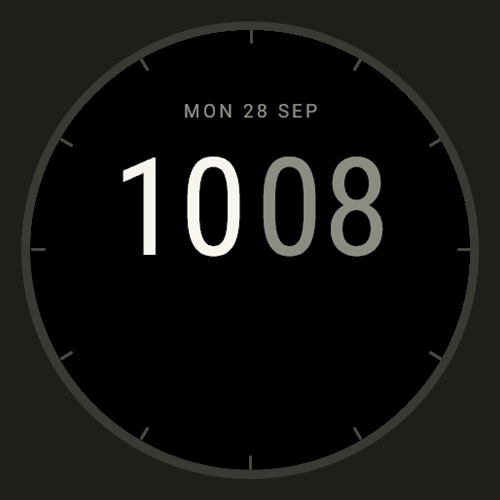
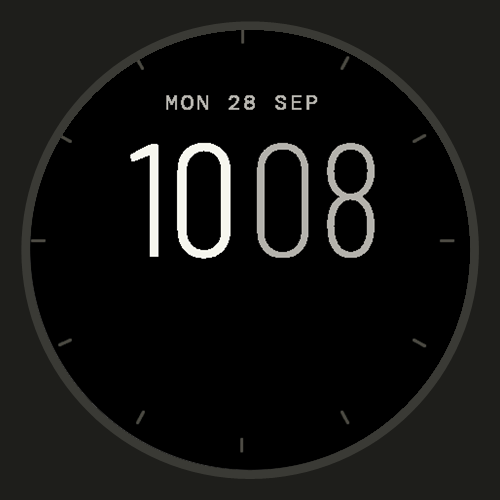
Store images with real fonts, night and MIP shots; docs
- Regenerated screenshots, cover, icon and hero from the bitmap-font build;
  added Night and MIP screenshots and a language-neutral hero
- Single capture script (store/tools/devshot.ps1) replaces build/capture/crop
- Store description: customise steps, Night mode, MIP seconds
- CLAUDE.md: fonts, night mode, burn-in, per-device configs; build order done

diff --git a/CLAUDE.md b/CLAUDE.md
@@ -49,18 +49,26 @@ Products are all round watch-face devices on API 5.0+ (rectangular Venu Sq / X1 
 semi-octagon, monochrome Instinct screens are deliberately out). `tests\check-resources.ps1` checks
 every product is round. On those watches:
 
+- **Fonts per screen size**: the bitmap fonts live in `resources-round-<W>x<W>/fonts/` (9 sizes,
+  see Fonts). A device override in `monkey.jungle` drops these automatic folders, so every
+  override line must list its own `resources-round-<W>x<W>` (the resource check enforces it).
 - **No scalable fonts** (all MIP watches, and some AMOLED ones such as the Venu 2 family):
-  `Graphics.getVectorFont` is missing, so guard it with `has`. Fall back to the system font whose
-  real height is closest to the design size on that screen (`ApexLayout.pickFont`), and lay text
-  rows out from the real font heights (`ApexLayout.rowBelow` / `rowAbove`) so nothing overlaps.
+  `Graphics.getVectorFont` is missing, so it is guarded with `has`. It is only a fallback now (if the
+  bitmap fonts can't load), after which the system font closest to the design size is used
+  (`ApexLayout.pickFont`). Text rows are laid out from real font heights
+  (`ApexLayout.rowExtent` / `rowBelow` / `rowAbove`) so nothing overlaps.
 - **Pen widths** below 1 px throw on small screens: always go through `ApexLayout.penWidth`.
 - **MIP colours**: 64-colour palette (channels 00/55/AA/FF). Greys darker than ~0x2B round to black,
-  so the minor ticks and rule use `0x555555` there (`ApexLayout.ringGreys`). MIP watches have no
-  burn-in protection, so low power shows the normal face without seconds.
-- **The on-device editor** exists only on API 5.1+ watches; `ApexEditor` checks for it with `has`.
-- Check layout changes on the smallest and largest screens in the simulator (fr255s 218 px,
-  fenix7 260 px, venu2s 360 px, fenix9pro51mm 466 px), and run the unit tests on a MIP device
-  (fenix7) as well as on the fr970.
+  so the minor ticks and rule use `0x555555` there, `0x550000` at night (`ApexLayout.palette`).
+- **MIP low power**: no burn-in protection, so the normal face stays on, and `onPartialUpdate`
+  redraws the seconds comet + trail once a second, clipped to the box around the old and new comet
+  (`ApexLayout.cometBox`) to stay inside the power budget.
+- **The on-device editor**: `editor-full/configs/watchface.xml`, or `editor-basic` (no Sleep score)
+  for the watches whose firmware lacks `COMPLICATION_TYPE_SLEEP_SCORE` (listed in `monkey.jungle`;
+  the resource check verifies every product's types against its device API).
+- Check layout changes on every screen size in the simulator (fr255s 218, fenix7s 240, fenix7 260,
+  enduro3 280, venu2s 360, fr165 390, fr265 416, fr970 454, fenix9pro51mm 466 px; see
+  `store/tools/README.md`), and run the unit tests on a MIP device (fenix7) as well as on the fr970.
 
 ## Colours
 
@@ -84,14 +92,17 @@ The display may quantise to fewer colours; pick the nearest if a value renders v
 
 1. **Active** (wrist raised, high power): everything above, redraw every second.
 2. **Always-On** (`onEnterSleep`, and `System.getDeviceSettings().requiresBurnInProtection` is true):
-   only date, hours (thin), minutes (dim), and the 12 major ticks in `0x4A4A46`. No seconds,
-   no arc, no fields, no readout. Follow Garmin's AMOLED burn-in rules (limited lit pixels, shift
-   the content a few px each minute, no static bright areas) — check the current numbers in the
-   Connect IQ UX guidelines and verify with the simulator's burn-in / low-power checks.
-   `onExitSleep` returns to Active.
-3. **Night (Red Shift)**: the red palette above. First check whether the fr970's system Red Shift
-   mode tints third-party faces automatically; if it does, skip this. If not, add a `NightMode`
-   setting: Off / Auto (use `UserProfile.getProfile()` sleep and wake times) / On.
+   only date, hours (thin), minutes (dim), and the 12 major ticks in `0x4A4A46` (inset 9 px).
+   No seconds, no arc, no fields, no readout. Garmin's AMOLED rules: at most 10 % of pixels lit per
+   update, and (older models) no pixel lit for more than 3 minutes. Everything moves by
+   `ApexLayout.AOD_TIME_SHIFTS`, which spreads ≥ 14 px across and down over any 4 minutes (hour
+   strokes are ~12 px wide). Measure with `tools\aod-burnin.ps1` on 8 consecutive Always-On frames:
+   currently ~5.5 % lit; only a few dozen pixels where successive minute digits overlap by chance
+   can stay lit up to 6 minutes. `onExitSleep` returns to Active.
+3. **Night (Red Shift)**: the red palette above, via the `NightMode` setting: Off / Auto
+   (`UserProfile.getProfile()` sleep and wake times) / On. The fr970's system Red Shift does tint
+   third-party faces (luminance-based, no API to detect it), but most of the 66 watches have no Red
+   Shift, so the setting exists for them. In Always-On at night the major ticks are `0x5C1E18`.
 
 ## Settings (replace the template's)
 
@@ -103,7 +114,7 @@ calls `WatchUi.requestUpdate()`.
 - `Arc` (default Body Battery): number enum below
 - `AccentColor`, `NumeralColor`: list of the colours above (numerals has an "Accent" entry — use a sentinel like `-1`)
 - `InkColor`, `DimColor`: optional, defaults `0xF4F4EF` / `0xB0B0AA`
-- `NightMode` if needed (see above)
+- `NightMode`: 0 Off (default), 1 Auto, 2 On (see Display modes)
 
 Accent and numeral lists were extended beyond the design's five/four colours (Amber, Mint, Cobalt,
 Violet, Scarlet; numerals also Silver and every accent hue) so the user has a range to pick from.
@@ -111,8 +122,8 @@ Violet, Scarlet; numerals also Silver and every accent hue) so the user has a ra
 
 ### On-device editor (Garmin's native watch face editor, API 5.1+)
 
-The user must be able to change data and colours on the watch itself. `resources/configs/watchface.xml`
-declares it; `source/ApexEditor.mc` holds the delegate; the view applies the editor's choices on top of
+The user must be able to change data and colours on the watch itself. `editor-full/configs/watchface.xml`
+(and `editor-basic`, the same without Sleep score; see Other watches) declares it; `source/ApexEditor.mc` holds the delegate; the view applies the editor's choices on top of
 the phone settings (editor wins when it has a value).
 
 - Data slots 1–3 = the fields (left → right), an explicit list of system data types; types the face has its own source for map to
@@ -162,25 +173,28 @@ Add the permissions the sources need (e.g. `SensorHistory`, `UserProfile`, `Posi
 
 ## Fonts
 
-The design uses Google Fonts (Barlow Condensed 800/200/600, DM Mono 400), which the watch cannot
-load. Convert them to Connect IQ custom bitmap fonts (BMFont `.fnt` + `.png`), declared in
-`resources/fonts/fonts.xml` with `filter` to include only the glyphs needed (keeps memory low):
+The design's Google Fonts (Barlow Condensed 800/200/300/600, DM Mono 400; OFL, sources and licences
+in `tools/fonts/`) are converted to Connect IQ bitmap fonts (BMFont `.fnt` + `.png`) by
+`tools\make-fonts.ps1`, one set per screen size in `resources-round-<W>x<W>/fonts/`. Regenerate after
+changing sizes or glyphs. Sizes are the 454 px design sizes × width / 454, with minimums for small
+screens; MIP screens get 1-bit hinted glyphs below 20 px. Each font's line box runs from cap top to
+the lowest descender, so `TEXT_JUSTIFY_VCENTER` centres the digits (Connect IQ clips ink outside the
+line box).
 
-| Font resource | Face | Size | Glyphs |
+| Font resource | Face | 454 px size (min) | Glyphs |
 |---|---|---|---|
 | `TimeHeavy` | Barlow Condensed 800 | 164 px | `0123456789` |
 | `TimeThin` | Barlow Condensed 200 | 164 px | `0123456789` |
 | `TimeAod` | Barlow Condensed 300 | 164 px | `0123456789` |
-| `Value` | Barlow Condensed 600 | 28 px | `0123456789,.:%°h-` |
-| `ArcValue` | Barlow Condensed 600 | 26 px | `0123456789%-` |
-| `Mono22` | DM Mono 400 | 22 px | `A–Z 0–9` space |
-| `Mono16` | DM Mono 400 | 16 px | `A–Z` space |
-| `Mono14` | DM Mono 400 | 14 px | `A–Z` space |
+| `Value` | Barlow Condensed 600 | 28 px (14) | digits, `,.:%-/+°`, space, `A–Z a–z` (system data values) |
+| `ArcValue` | Barlow Condensed 600 | 26 px (13) | `0123456789%-` |
+| `Mono22` | DM Mono 400 | 22 px (12) | `A–Z 0–9` space |
+| `Mono16` | DM Mono 400 | 16 px (10) | `A–Z 0–9 ./-%°` space |
+| `Mono14` | DM Mono 400 | 14 px (10) | `A–Z` space |
 
-Letter-spacing isn't supported by `drawText`; for the tracked mono labels either bake spacing into
-the generated font (add padding per glyph) or draw character by character. Until the fonts exist,
-use system fonts (`Graphics.FONT_NUMBER_THAI_HOT`, `FONT_XTINY`, …) as stand-ins so everything
-else can be built and tested.
+Letter-spacing isn't supported by `drawText`, so the tracked mono labels are drawn character by
+character (`drawTracked`). All eight fonts together use about 4 KB of app memory on a 218 px watch.
+If they fail to load, the view falls back to scalable then system fonts.
 
 ## Implementation notes
 
@@ -189,8 +203,9 @@ else can be built and tested.
 - Cache the static ring (minor + major ticks, arc track) in a `Graphics.BufferedBitmap` created in
   `onLayout`, and rebuild it only when settings change.
 - Read sensor data at most once per update; guard every value against `null`.
-- Seconds (comet, trail, `SEC` field) exist only in high-power mode. AMOLED faces do not get
-  `onPartialUpdate`, so in low-power mode simply omit them.
+- Seconds (comet, trail, `SEC` field) exist in high-power mode. AMOLED faces do not get
+  `onPartialUpdate` and switch to Always-On; MIP faces keep the comet and trail through
+  `onPartialUpdate` (the `SEC` field still shows `--` in low power).
 - Keep `onUpdate` cheap: no allocations of large objects per frame.
 
 ## Build order
@@ -199,9 +214,12 @@ else can be built and tested.
 2. Seconds comet + trail; Active ⇄ AOD switching via `onEnterSleep` / `onExitSleep`.
 3. Data fields with the metric table and settings.
 4. Arc + readout with the arc table and settings.
-5. Colour settings (accent, numerals, ink, dim), then Night mode if required.
-6. Custom fonts.
-7. Burn-in / memory checks in the simulator; test every field value as `null`.
+5. Colour settings (accent, numerals, ink, dim), then Night mode. Done.
+6. Custom fonts. Done (`tools\make-fonts.ps1`).
+7. Burn-in / memory checks: done with `tools\aod-burnin.ps1` and the simulator's memory readout;
+   every field value as `null` is covered by the unit tests.
+
+All seven steps are done.
 
 ## Working here
 

diff --git a/store/tools/README.md b/store/tools/README.md
@@ -1,26 +1,28 @@
 # Store image generator
 
-Regenerates `store/*.png` from real simulator renders of the face.
+Regenerates `store/*.png` from real simulator renders of the face, with a fixed time
+(Mon 28 Sep) and representative readings (HR 58, steps 8,214, ...) instead of live sensors.
+The drawing code is the face's own.
 
-1. Copy the project (`manifest.xml`, `monkey.jungle`, `resources/`, `source/` without `*Test.mc`) to a scratch folder.
-2. Copy `ShotSamples.mc.txt` to `<scratch>/source/ShotSamples.mc`, then run `perl patch.pl <scratch>`.
-   This fixes the time to Mon 28 Sep and feeds representative readings (HR 58, steps 8,214, …)
-   instead of live sensors. Drawing code is unchanged.
-3. Copy `build.sh` and the `.ps1` files into the scratch folder, then build each variant:
-   `./build.sh NAME AOD ACCENT NUMERALS F1 F2 F3 ARC HOUR MIN SEC`
-   - volt:    `false 0xC8FF2E 0xF4F4EF 0 1 10 0 10 8 34`
-   - aod:     `true  0xC8FF2E 0xF4F4EF 0 1 10 0 10 8 34`
-   - ember:   `false 0xFF5A1F 0xF4F4EF 3 4 12 1 18 42 12`
-   - glacier: `false 0x4FD1FF 0xCFE3FF 5 8 9 2 6 55 48`
-   - signal:  `false 0xFF3D7F -1 0 13 14 5 21 37 5`
-4. With the simulator open: `capture.ps1 -Prg bin\NAME.prg -Out raw\NAME.png`, then
-   `crop.ps1 -In raw\NAME.png -Out face\NAME.png` (the display origin (162, 243) assumes the default fr970 window at 100 % scaling).
+1. Make a scratch folder and copy into it: `manifest.xml`, `monkey.jungle`, `resources/`,
+   `resources-round-*/`, `editor-full/`, `editor-basic/`, and `source/` without `*Test.mc`.
+2. Copy `ShotSamples.mc.txt` to `<scratch>/source/ShotSamples.mc`, `devshot.ps1` into the
+   scratch folder, and run `perl patch.pl <scratch>` (re-copy the sources before patching again;
+   the patch is not idempotent).
+3. Build each variant (`-BuildOnly`), e.g.
+   - volt:    `devshot.ps1 -Device fr970 -BuildOnly -Tag _volt`
+   - aod:     `... -Tag _aod -Aod`
+   - ember:   `... -Tag _ember -Accent 0xFF5A1F -Fields "3, 4, 12" -Arc 1 -Hour 18 -Min 42 -Sec 12`
+   - glacier: `... -Tag _glacier -Accent 0x4FD1FF -Numerals 0xCFE3FF -Fields "5, 8, 9" -Arc 2 -Hour 6 -Min 55 -Sec 48`
+   - signal:  `... -Tag _signal -Accent 0xFF3D7F "-Numerals:-1" -Fields "0, 13, 14" -Arc 5 -Hour 21 -Min 37 -Sec 5`
+   - night:   `... -Tag _night -Night -Hour 23 -Min 14 -Sec 40`
+   - mip:     `devshot.ps1 -Device fenix7 -BuildOnly -Tag _mip`
+4. With the simulator open, launch each from PowerShell (a hidden or detached launch does not
+   switch the simulator's device):
+   `Start-Process monkeydo.bat -ArgumentList bin\dev_fr970_volt.prg, fr970 -NoNewWindow -RedirectStandardOutput log.txt`,
+   wait ~20 s, then `devshot.ps1 -Device fr970 -Out face\volt.png` saves the round display.
+   If the simulator stays on its loading triangle after many launches, restart it.
 5. `compose.ps1 -Faces face -Out <repo>\store`
 
-## Checking other screen sizes
-
-`devshot.ps1 -Device <id> -BuildOnly` builds the sample-data face for any product. Launch it with
-PowerShell `Start-Process monkeydo.bat -ArgumentList bin\dev_<id>.prg, <id> -NoNewWindow
--RedirectStandardOutput <log>` (a hidden or detached launch does not switch the simulator's device),
-wait ~20 s, then `devshot.ps1 -Device <id> -Out dev\<id>.png` saves the round display. If the
-simulator stays on its loading triangle after many launches, restart it.
+The same build + capture steps check any product's layout (`-Device <id>`), and Always-On
+frames for consecutive minutes (`-Aod -Min <m>`) feed `tools\aod-burnin.ps1`.
